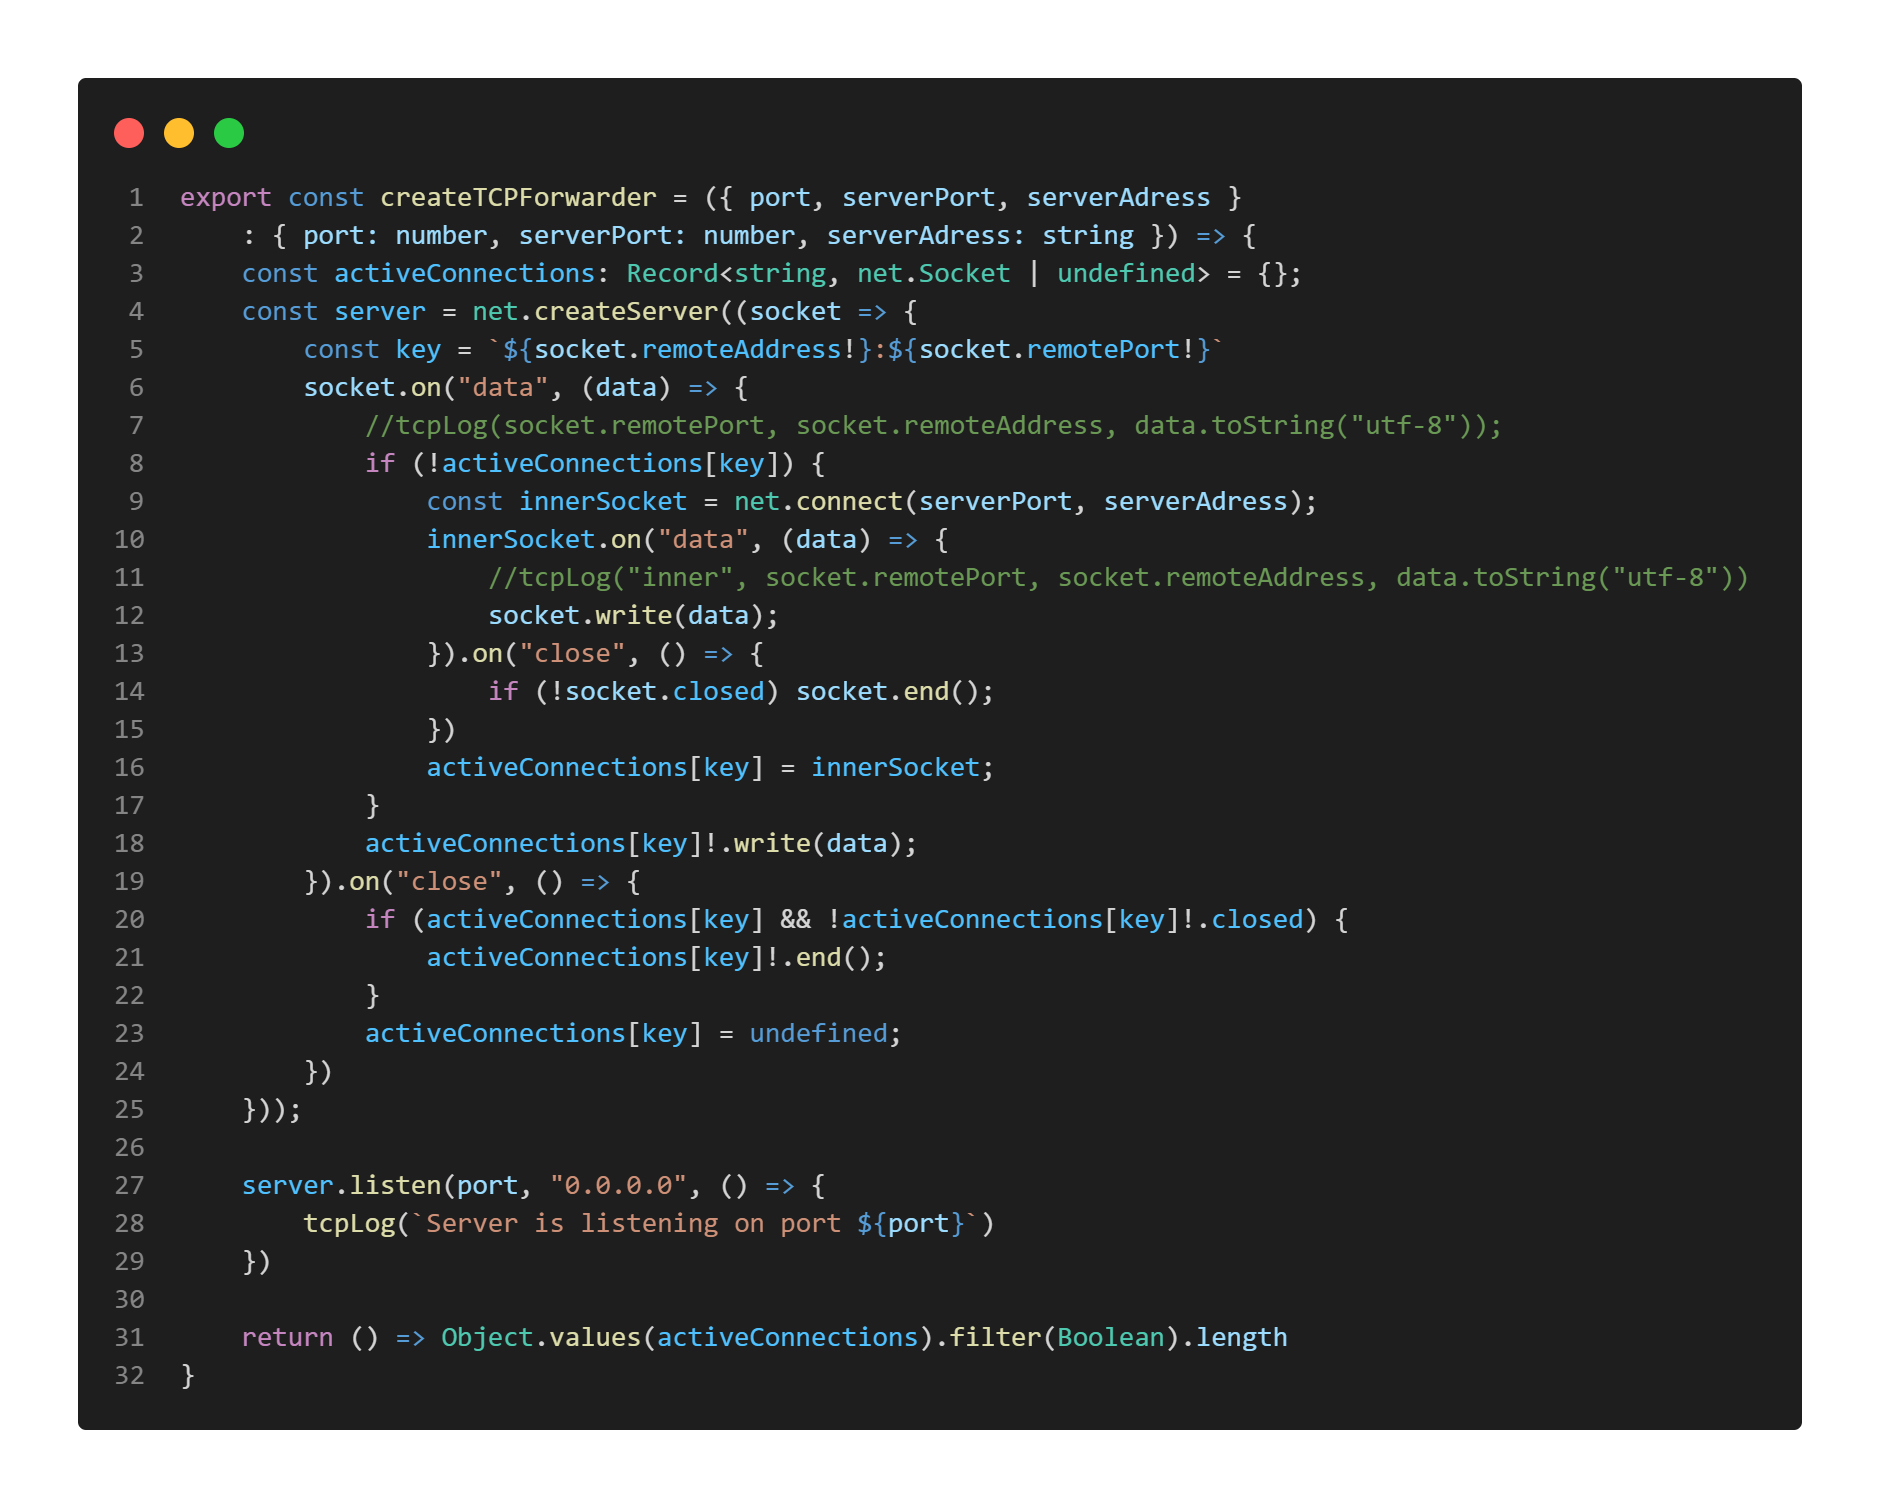
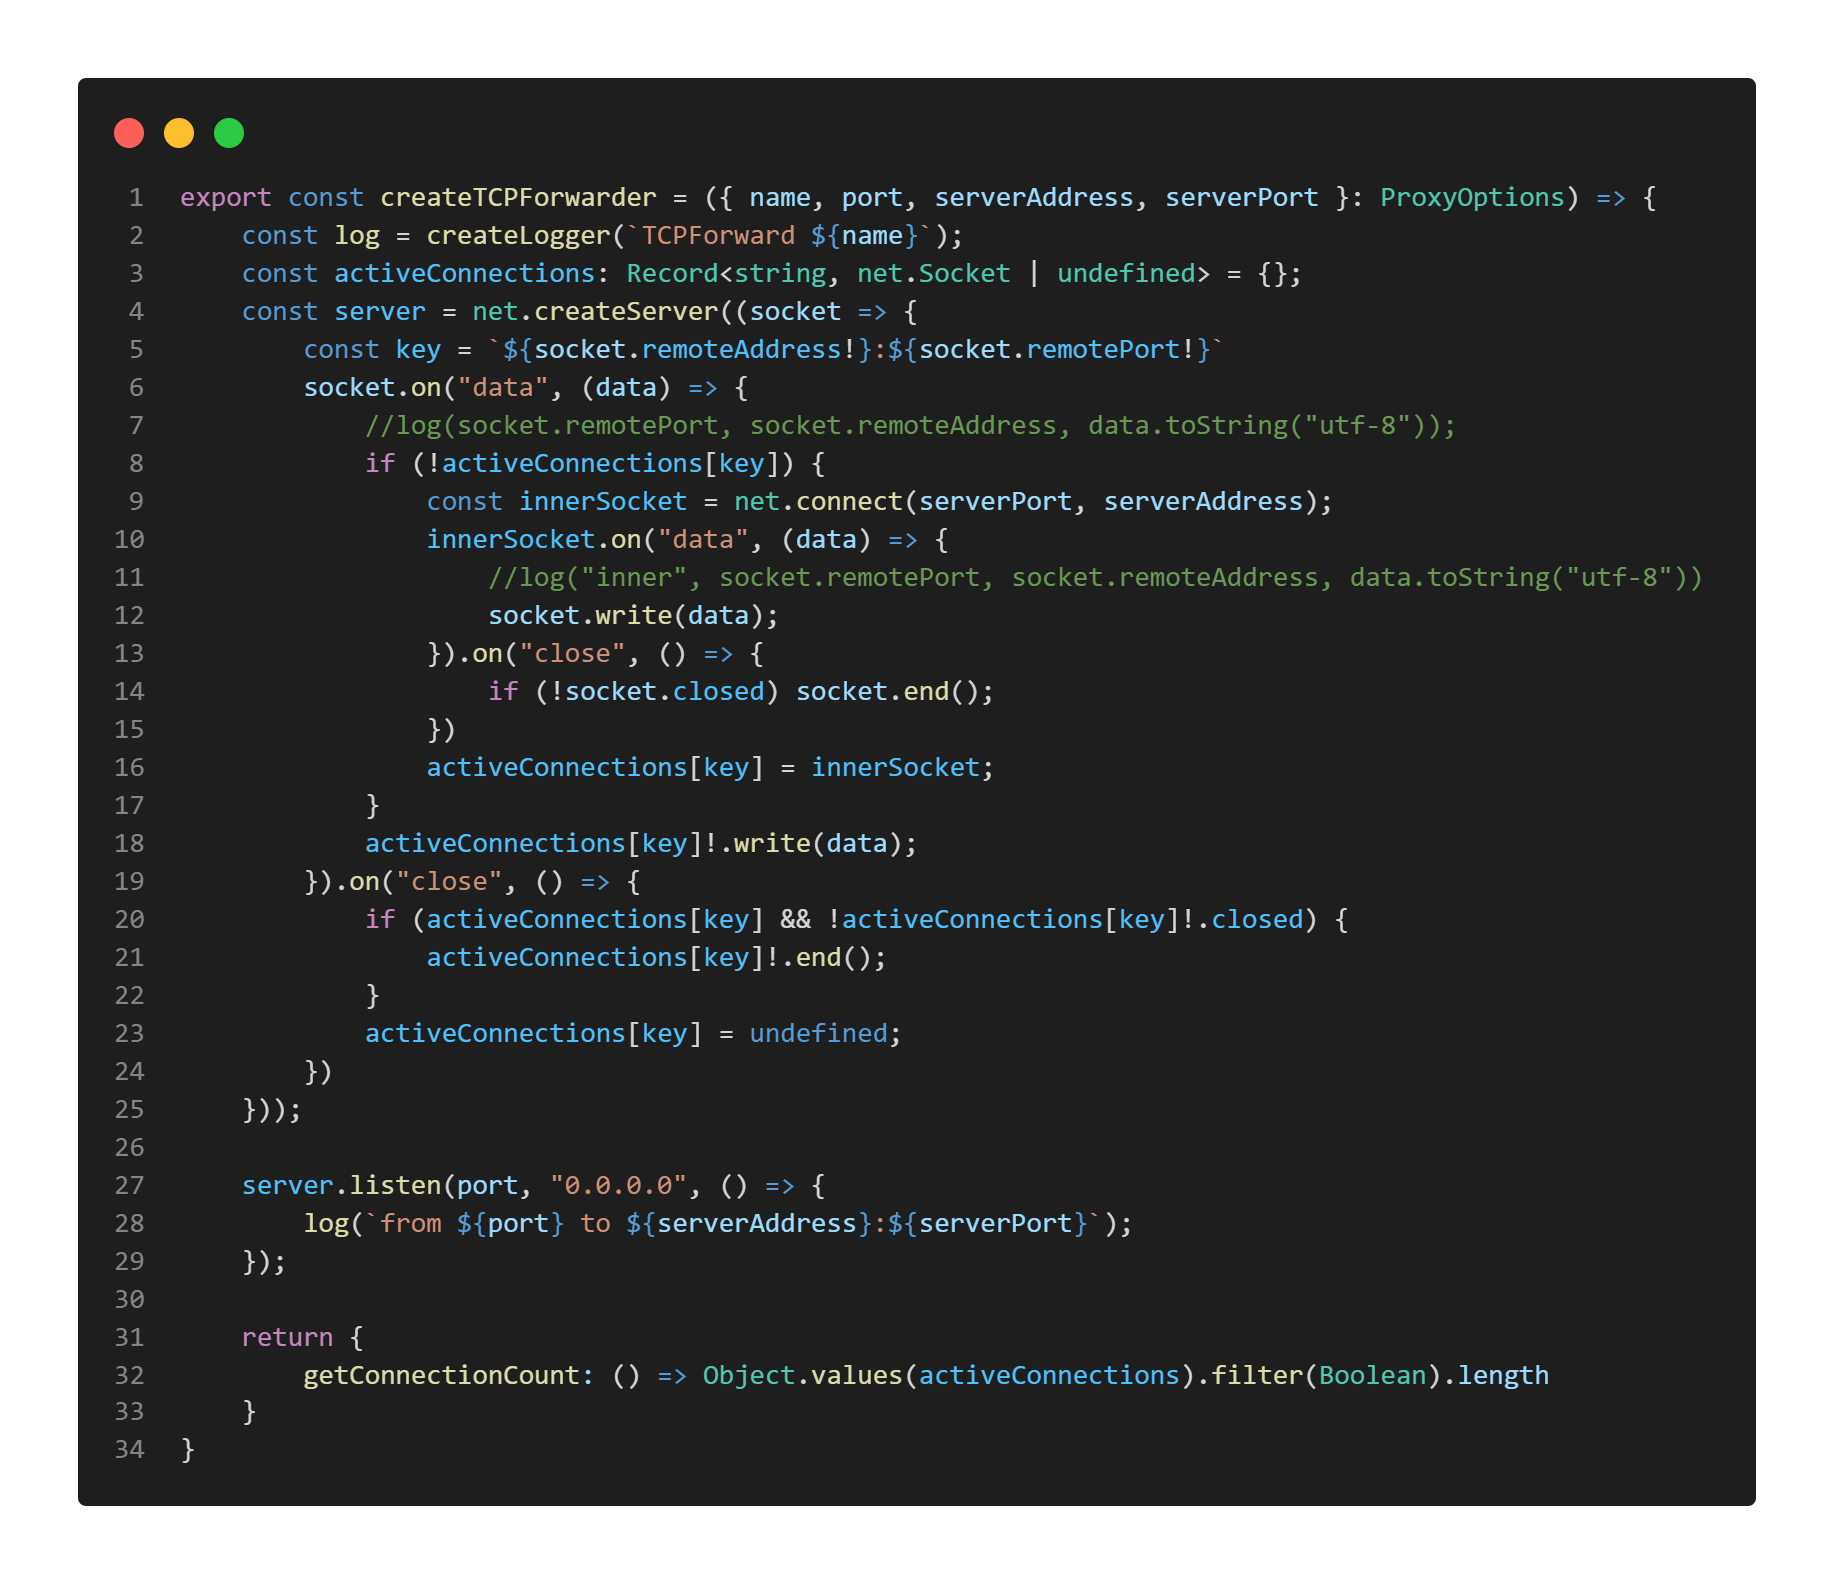
Updated the Forwarders

diff --git a/apps/forwarder/src/createForwarder.ts b/apps/forwarder/src/createForwarder.ts
@@ -2,21 +2,25 @@ import dgram from "dgram";
 import net from "net";
 import { createLogger } from "logger";
 
-const udpLog = createLogger("UDPProxy");
-const tcpLog = createLogger("TCPProxy");
+interface ProxyOptions {
+    name: string
+    port: number
+    serverAddress: string
+    serverPort: number
+}
 
-export const createUDPForwarder = ({ port, serverPort, serverAdress }
-    : { port: number, serverPort: number, serverAdress: string }) => {
+export const createUDPForwarder = ({ name, port, serverAddress, serverPort }: ProxyOptions) => {
+    const log = createLogger(`UDPForward ${name}`);
     const activeConnections: Record<string, { socket: dgram.Socket, timeoutDate: Date } | undefined> = {};
     const socket = dgram.createSocket({ type: "udp4" });
 
     socket.on("message", (data, remoteInfo) => {
         const key = `${remoteInfo.address}:${remoteInfo.port}`
-        //udpLog(remoteInfo, data.toString("utf-8"))
+        //log(remoteInfo, data.toString("utf-8"))
         if (!activeConnections[key]) {
             const innerSocket = dgram.createSocket({ type: "udp4" })
             innerSocket.on("message", (data) => {
-                // udpLog("inner", remoteInfo, data.toString("utf-8"))
+                //log("inner", remoteInfo, data.toString("utf-8"))
                 socket.send(data, remoteInfo.port, remoteInfo.address);
                 activeConnections[key]!.timeoutDate = new Date();
             })
@@ -26,12 +30,12 @@ export const createUDPForwarder = ({ port, serverPort, serverAdress }
             }
         }
 
-        activeConnections[key]!.socket.send(data, serverPort, serverAdress);
+        activeConnections[key]!.socket.send(data, serverPort, serverAddress);
         activeConnections[key]!.timeoutDate = new Date();
     });
 
     socket.bind(port, "0.0.0.0", () => {
-        udpLog(`Listen on port ${port}`)
+        log(`from ${port} to ${serverAddress}:${serverPort}`);
     });
 
     setInterval(() => {
@@ -44,20 +48,22 @@ export const createUDPForwarder = ({ port, serverPort, serverAdress }
         });
     }, 1000);
 
-    return () => Object.values(activeConnections).filter(Boolean).length
+    return {
+        getConnectionCount: () => Object.values(activeConnections).filter(Boolean).length
+    }
 }
 
-export const createTCPForwarder = ({ port, serverPort, serverAdress }
-    : { port: number, serverPort: number, serverAdress: string }) => {
+export const createTCPForwarder = ({ name, port, serverAddress, serverPort }: ProxyOptions) => {
+    const log = createLogger(`TCPForward ${name}`);
     const activeConnections: Record<string, net.Socket | undefined> = {};
     const server = net.createServer((socket => {
         const key = `${socket.remoteAddress!}:${socket.remotePort!}`
         socket.on("data", (data) => {
-            //tcpLog(socket.remotePort, socket.remoteAddress, data.toString("utf-8"));
+            //log(socket.remotePort, socket.remoteAddress, data.toString("utf-8"));
             if (!activeConnections[key]) {
-                const innerSocket = net.connect(serverPort, serverAdress);
+                const innerSocket = net.connect(serverPort, serverAddress);
                 innerSocket.on("data", (data) => {
-                    //tcpLog("inner", socket.remotePort, socket.remoteAddress, data.toString("utf-8"))
+                    //log("inner", socket.remotePort, socket.remoteAddress, data.toString("utf-8"))
                     socket.write(data);
                 }).on("close", () => {
                     if (!socket.closed) socket.end();
@@ -74,8 +80,10 @@ export const createTCPForwarder = ({ port, serverPort, serverAdress }
     }));
 
     server.listen(port, "0.0.0.0", () => {
-        tcpLog(`Server is listening on port ${port}`)
-    })
+        log(`from ${port} to ${serverAddress}:${serverPort}`);
+    });
 
-    return () => Object.values(activeConnections).filter(Boolean).length
+    return {
+        getConnectionCount: () => Object.values(activeConnections).filter(Boolean).length
+    }
 }

diff --git a/apps/forwarder/src/index.ts b/apps/forwarder/src/index.ts
@@ -3,13 +3,13 @@ import { createTCPForwarder, createUDPForwarder } from "./createForwarder";
 
 const log = createLogger("Main");
 
-const getTF2ConnectionCountUDP = createUDPForwarder({ port: 27015, serverPort: 27015, serverAdress: "192.168.10.54" });
-const getMCConnectionCountTCP = createTCPForwarder({ port: 25565, serverPort: 25565, serverAdress: "192.168.10.54" });
+const tf2Forwarder = createUDPForwarder({ name: "tf2", port: 27015, serverAddress: "192.168.10.54", serverPort: 27015 });
+const mcForwarder = createTCPForwarder({ name: "mc", port: 25565, serverAddress: "192.168.10.54", serverPort: 25565 });
 
 const main = async () => {
     setInterval(() => {
-        log(getTF2ConnectionCountUDP(), getMCConnectionCountTCP())
-    }, 1000)
+        log(tf2Forwarder.getConnectionCount(), mcForwarder.getConnectionCount())
+    }, 1000);
 }
 
 main();
